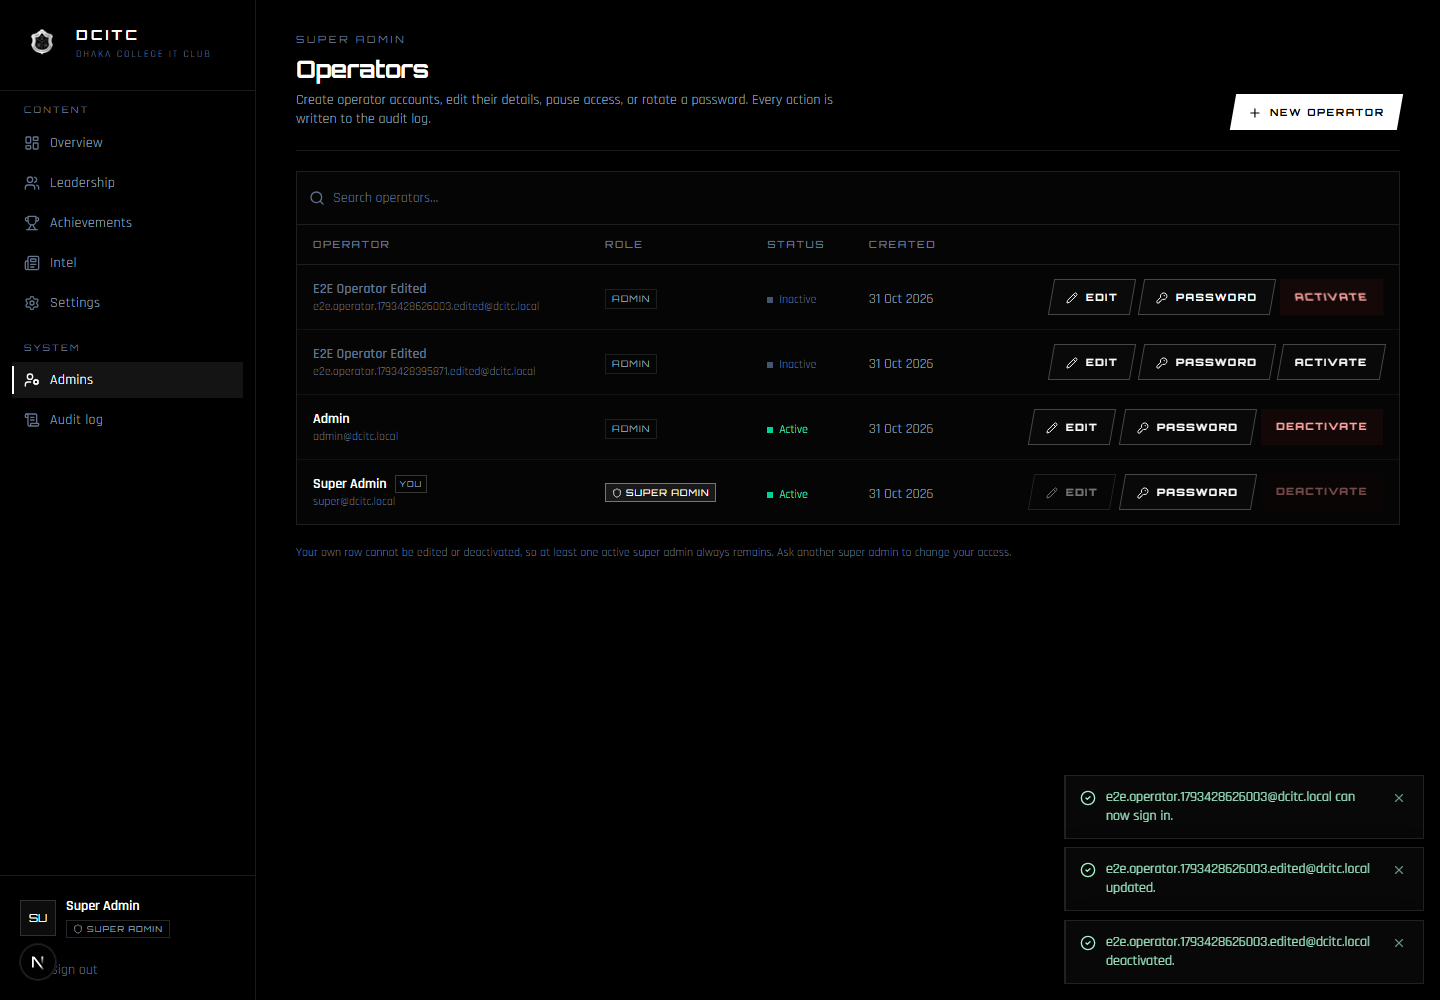
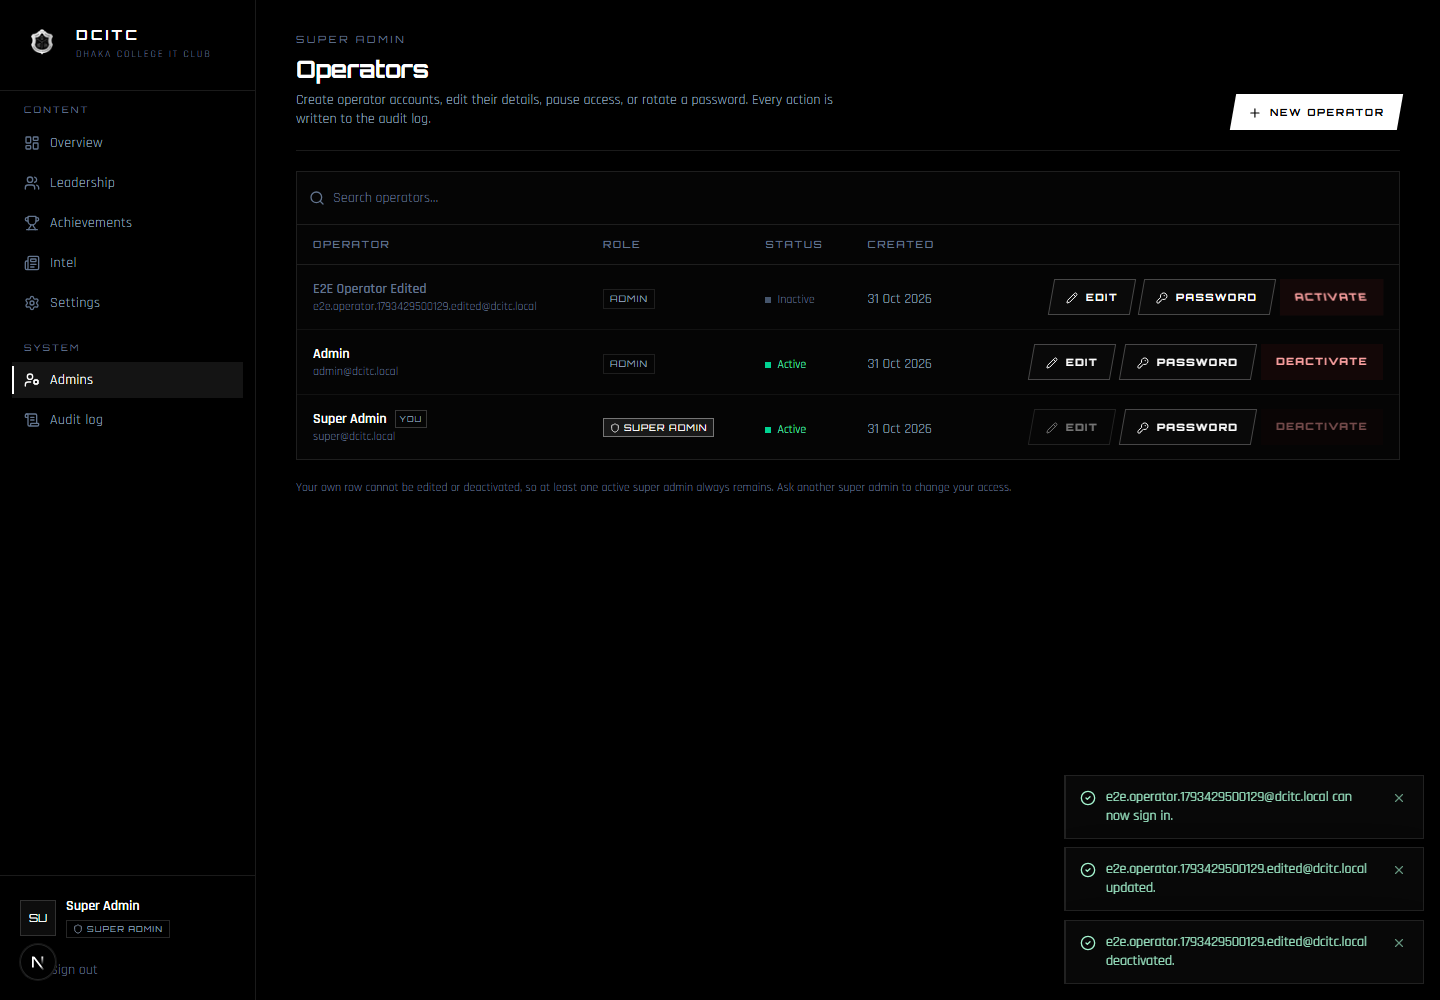
simplify admin edit review findings
Reuse the create-admin zod fields for PATCH, drop the pre-update read in favour of an atomic token_version increment, share the name/email validation, and wrap the disabled Edit button so its tooltip shows.

diff --git a/backend/src/routes/superAdmin.ts b/backend/src/routes/superAdmin.ts
@@ -1,4 +1,4 @@
-import { desc, eq } from "drizzle-orm";
+import { desc, eq, sql } from "drizzle-orm";
 import { Router } from "express";
 import { z } from "zod";
 import { db } from "../db/pool.js";
@@ -21,12 +21,10 @@ const createAdmin = z.object({
   role: z.enum(["admin", "super_admin"]),
 });
 
-const patchAdmin = z
-  .object({
-    name: z.string().trim().min(1, "Enter a name.").max(120).optional(),
-    email: z.string().trim().toLowerCase().email().max(254).optional(),
-    active: z.boolean().optional(),
-  })
+const patchAdmin = createAdmin
+  .pick({ name: true, email: true })
+  .partial()
+  .extend({ active: z.boolean().optional() })
   .refine((body) => Object.values(body).some((value) => value !== undefined), {
     message: "Nothing to update.",
   });
@@ -71,36 +69,37 @@ superAdminRouter.patch(
   validate({ params: uuidParam, body: patchAdmin }),
   async (req, res, next) => {
     const { id } = req.params as unknown as z.infer<typeof uuidParam>;
-    const { name, email, active } = req.body as z.infer<typeof patchAdmin>;
-    // Also the last-super-admin guard: an actor can never deactivate itself, so at
+    const body = req.body as z.infer<typeof patchAdmin>;
+    // Last-super-admin guard: an actor can never modify its own account, so at
     // least one active super admin always remains.
     if (id === req.currentAdmin!.id) return next(cannotModifySelf());
-
-    const [current] = await db.select().from(admins).where(eq(admins.id, id)).limit(1);
-    if (!current) return next(notFound("Admin not found."));
 
     try {
       const [row] = await db
         .update(admins)
         .set({
-          ...(name === undefined ? {} : { name }),
-          ...(email === undefined ? {} : { email }),
+          ...body,
           // Deactivation and reactivation both invalidate outstanding sessions.
-          ...(active === undefined ? {} : { active, tokenVersion: current.tokenVersion + 1 }),
+          ...(body.active === undefined ? {} : { tokenVersion: sql`${admins.tokenVersion} + 1` }),
           updatedAt: new Date(),
         })
         .where(eq(admins.id, id))
         .returning();
+      if (!row) return next(notFound("Admin not found."));
 
       await writeAudit({
         actorAdminId: req.currentAdmin!.id,
         action:
-          active === undefined ? "admin.updated" : active ? "admin.activated" : "admin.deactivated",
+          body.active === undefined
+            ? "admin.updated"
+            : body.active
+              ? "admin.activated"
+              : "admin.deactivated",
         targetType: "admin",
         targetId: id,
-        metadata: { email: row!.email, changes: Object.keys(req.body as object) },
+        metadata: { email: row.email, changes: Object.keys(body) },
       });
-      res.json({ data: toAdmin(row!) });
+      res.json({ data: toAdmin(row) });
     } catch (error) {
       if (isUniqueViolation(error)) return next(emailTaken());
       next(error);

diff --git a/frontend/src/app/admin/admins/page.tsx b/frontend/src/app/admin/admins/page.tsx
@@ -25,6 +25,15 @@ function formatDate(value: string) {
   });
 }
 
+function validateDetails(values: { name: string; email: string }) {
+  const errors: Record<string, string> = {};
+  if (!values.name.trim()) errors.name = "Enter a name.";
+  if (!/^\S+@\S+\.\S+$/.test(values.email.trim())) {
+    errors.email = "Enter a valid email address.";
+  }
+  return errors;
+}
+
 export default function AdminAdminsPage() {
   const router = useRouter();
   const toast = useToast();
@@ -105,11 +114,7 @@ export default function AdminAdminsPage() {
   async function create(event: React.FormEvent) {
     event.preventDefault();
     if (saving) return;
-    const errors: Record<string, string> = {};
-    if (!form.name.trim()) errors.name = "Enter a name.";
-    if (!/^\S+@\S+\.\S+$/.test(form.email.trim())) {
-      errors.email = "Enter a valid email address.";
-    }
+    const errors = validateDetails(form);
     if (form.password.length < 8) {
       errors.password = "Use at least 8 characters.";
     }
@@ -181,11 +186,7 @@ export default function AdminAdminsPage() {
   async function saveEdit(event: React.FormEvent) {
     event.preventDefault();
     if (!editing || editPending) return;
-    const errors: Record<string, string> = {};
-    if (!editForm.name.trim()) errors.name = "Enter a name.";
-    if (!/^\S+@\S+\.\S+$/.test(editForm.email.trim())) {
-      errors.email = "Enter a valid email address.";
-    }
+    const errors = validateDetails(editForm);
     setEditErrors(errors);
     if (Object.keys(errors).length > 0) return;
 
@@ -349,17 +350,22 @@ export default function AdminAdminsPage() {
           const isSelf = item.id === me?.id;
           return (
             <>
-              <Button
-                type="button"
-                variant="secondary"
-                size="sm"
-                disabled={isSelf}
-                title={isSelf ? "You cannot edit your own account here." : undefined}
-                onClick={() => openEdit(item)}
+              <span
+                title={
+                  isSelf ? "You cannot edit your own account here." : undefined
+                }
               >
-                <Pencil className="h-3 w-3" aria-hidden="true" />
-                Edit
-              </Button>
+                <Button
+                  type="button"
+                  variant="secondary"
+                  size="sm"
+                  disabled={isSelf}
+                  onClick={() => openEdit(item)}
+                >
+                  <Pencil className="h-3 w-3" aria-hidden="true" />
+                  Edit
+                </Button>
+              </span>
               <Button
                 type="button"
                 variant="secondary"

diff --git a/backend/test/content.test.ts b/backend/test/content.test.ts
@@ -2,13 +2,11 @@ import "./setup.js";
 import assert from "node:assert/strict";
 import { after, before, describe, it } from "node:test";
 import { eq } from "drizzle-orm";
-import { env } from "../src/config/env.js";
 import { db } from "../src/db/pool.js";
 import { admins, users } from "../src/db/schema.js";
 import { signUserToken } from "../src/lib/jwt.js";
 import { hashPassword } from "../src/lib/password.js";
 import { testOutbox } from "../src/mail/index.js";
-import { seedAdmins } from "../src/services/admins.js";
 import { closePool, hasTestDb, prepareDatabase } from "./db.js";
 import { Client, startServer } from "./helpers.js";
 
@@ -60,6 +58,18 @@ after(async () => {
   if (!hasTestDb) return;
   await close();
   await closePool();
+});
+
+describe("admin seeding", () => {
+  dbIt("seeds only the super admin on boot", async () => {
+    // prepareDatabase() truncates and re-seeds, so this runs before any test
+    // creates an operator. A legacy ADMIN_EMAIL/ADMIN_PASSWORD pair would leave
+    // a second row here.
+    const rows = await db.select().from(admins);
+    assert.equal(rows.length, 1);
+    assert.equal(rows[0]!.email, superEmail());
+    assert.equal(rows[0]!.role, "super_admin");
+  });
 });
 
 describe("health and platform", () => {
@@ -744,24 +754,6 @@ describe("super admin", () => {
     assert.equal(selfDeactivate.status, 400);
     assert.equal(selfDeactivate.body.error.code, "cannot_modify_self");
     assert.match(selfDeactivate.body.error.message, /own account/i);
-  });
-
-  dbIt("seeds only the super admin, never ADMIN_EMAIL or ADMIN_PASSWORD", async () => {
-    process.env.ADMIN_EMAIL = "legacy-admin@example.com";
-    process.env.ADMIN_PASSWORD = "LegacyAdmin123!";
-    try {
-      await seedAdmins();
-      const legacy = await db
-        .select()
-        .from(admins)
-        .where(eq(admins.email, "legacy-admin@example.com"));
-      assert.equal(legacy.length, 0);
-      assert.equal("ADMIN_EMAIL" in env, false);
-      assert.equal("ADMIN_PASSWORD" in env, false);
-    } finally {
-      delete process.env.ADMIN_EMAIL;
-      delete process.env.ADMIN_PASSWORD;
-    }
   });
 
   dbIt("returns audit entries newest first and caps the limit", async () => {
